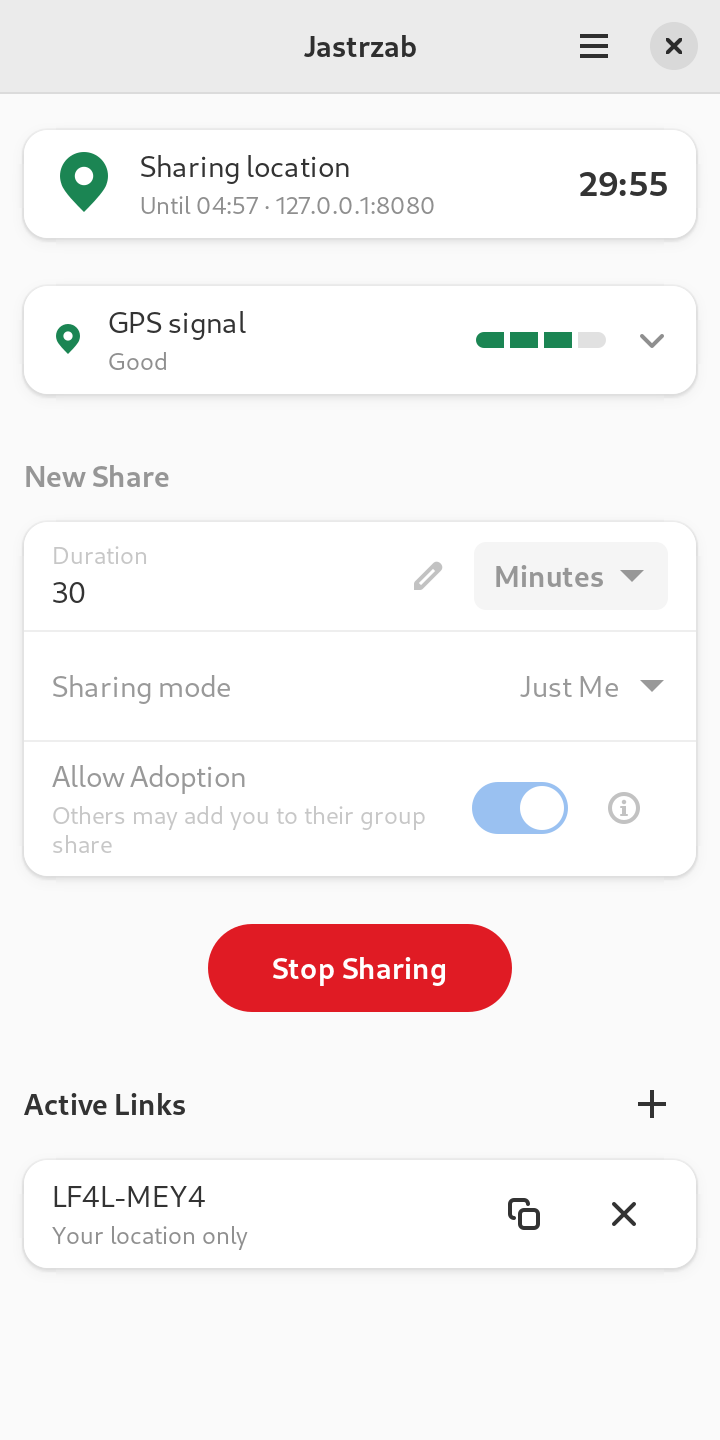
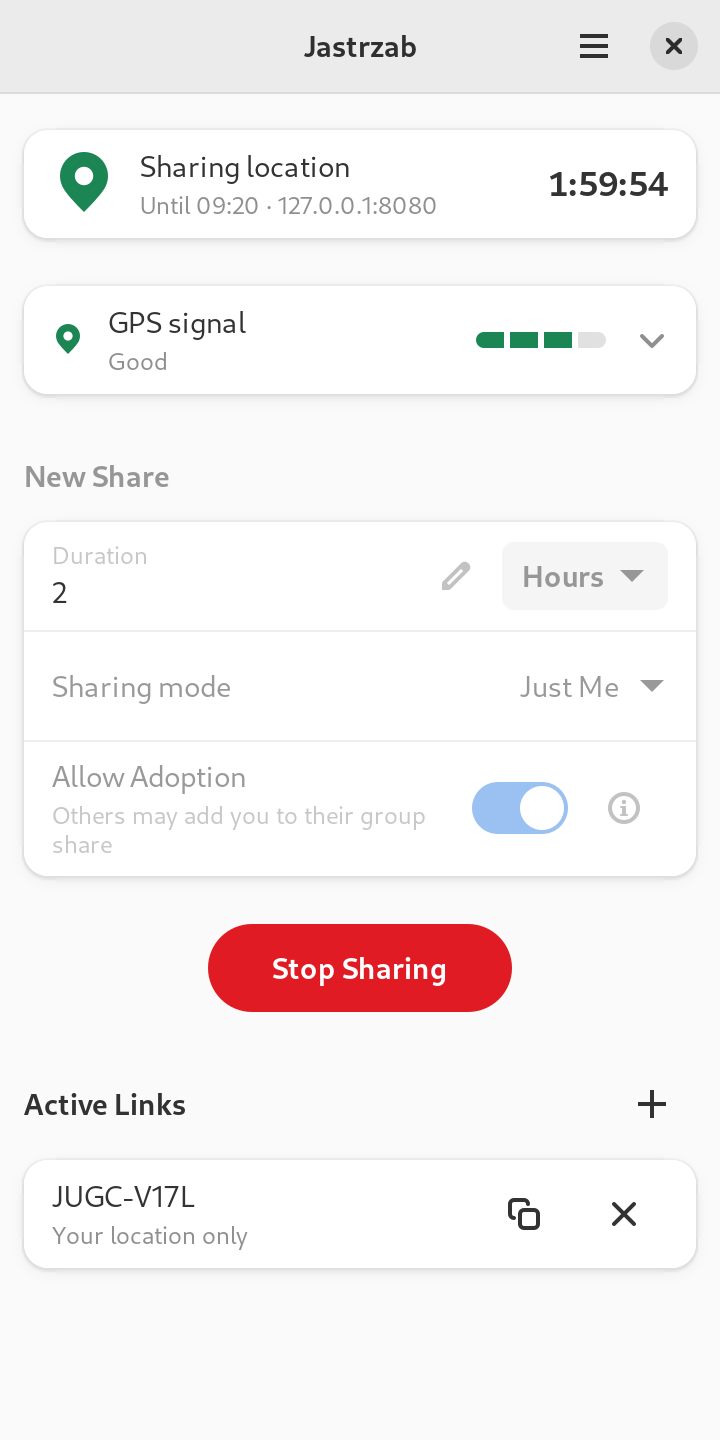
Preferences: text rows apply when left or when the window closes; 2 hours by default
The text rows (server address, username, password, link ID, proxy host,
encryption password) only applied through a tick button or Return, so
typing a server address and closing the window silently lost it. The
buttons are gone: a row applies when Return is pressed or it loses focus,
and every edited row applies when the window closes. Nothing applies per
keystroke, so a half-typed address still never reaches the network layer,
the keyring or the log scrubber, and a password shown from the keyring is
not stored back.

A new share now defaults to 2 hours instead of 30 minutes (a saved choice
is kept). The prefs scenario edits two rows through accessibility, closes
the window and checks the settings file; screenshots and design doc updated.

Claude-Session: https://claude.ai/code/session_01M2JufFLWbT6TqpVCVKjnwF

diff --git a/app/src/ui/preferences.rs b/app/src/ui/preferences.rs
@@ -1,6 +1,10 @@
-//! Preferences. Changes apply immediately and there is no Save button: spin rows, combos and
-//! switches apply when changed; text entries apply on Return or their apply button, so a
-//! half-typed server address never reaches the network layer or the log scrubber.
+//! Preferences. Changes apply by themselves and there is no Save button: spin rows, combos and
+//! switches apply when changed; text entries apply when the user leaves them (Return, tapping
+//! another row) or closes the window, so a half-typed server address never reaches the network
+//! layer, the keyring or the log scrubber, and nothing is lost by closing without a tick.
+
+use std::cell::{Cell, RefCell};
+use std::rc::Rc;
 
 use adw::prelude::*;
 use jastrzab_core::AppPaths;
@@ -11,49 +15,89 @@ use super::widgets::*;
 use crate::controller::Controller;
 use crate::platform::secrets::Kind;
 
+/// The text rows' pending edits, applied together when the window closes.
+type Commit = Rc<dyn Fn()>;
+
+#[derive(Clone, Default)]
+struct Pending(Rc<RefCell<Vec<Commit>>>);
+
+impl Pending {
+    fn flush(&self) {
+        for commit in self.0.borrow().iter() {
+            commit();
+        }
+    }
+}
+
+/// Applies `apply(text)` with the row's text once it has been edited, when the user presses Return
+/// or leaves the row, and (through `pending`) when the window closes. Returns the flag that says
+/// the row has unapplied edits: clear it after setting the text from the program.
+fn auto_apply(row: &impl IsA<adw::EntryRow>, pending: &Pending, apply: impl Fn(String) + 'static) -> Rc<Cell<bool>> {
+    let row = row.as_ref().clone();
+    let dirty = Rc::new(Cell::new(false));
+    let commit: Commit = {
+        let (row, dirty) = (row.clone(), dirty.clone());
+        Rc::new(move || {
+            if dirty.replace(false) {
+                apply(row.text().to_string());
+            }
+        })
+    };
+    {
+        let dirty = dirty.clone();
+        row.connect_changed(move |_| dirty.set(true));
+    }
+    {
+        let commit = commit.clone();
+        row.connect_entry_activated(move |_| commit());
+    }
+    let focus = gtk::EventControllerFocus::new();
+    {
+        let commit = commit.clone();
+        focus.connect_leave(move |_| commit());
+    }
+    row.add_controller(focus);
+    pending.0.borrow_mut().push(commit);
+    dirty
+}
+
 pub fn show(parent: &adw::ApplicationWindow, controller: &Controller) {
     let settings = controller.settings();
     let window = adw::PreferencesWindow::builder().transient_for(parent).modal(true).default_width(360).default_height(648).build();
     let page = adw::PreferencesPage::new();
+    let pending = Pending::default();
 
     // --- Server ----------------------------------------------------------------------------
     let server = adw::PreferencesGroup::builder().title(tr("Server")).build();
-    let address =
-        adw::EntryRow::builder().title(tr("Server address")).input_purpose(gtk::InputPurpose::Url).text(&settings.server_url).show_apply_button(true).build();
+    let address = adw::EntryRow::builder().title(tr("Server address")).input_purpose(gtk::InputPurpose::Url).text(&settings.server_url).build();
     {
         let controller = controller.clone();
-        address.connect_apply(move |row| {
-            let text = row.text().trim().to_string();
-            controller.update_settings(|s| s.server_url = text);
-        });
+        auto_apply(&address, &pending, move |text| controller.update_settings(|s| s.server_url = text.trim().to_string()));
     }
     server.add(&address);
-    let username = adw::EntryRow::builder().title(tr("Username")).text(&settings.username).show_apply_button(true).build();
+    let username = adw::EntryRow::builder().title(tr("Username")).text(&settings.username).build();
     {
         let controller = controller.clone();
-        username.connect_apply(move |row| {
-            let text = row.text().trim().to_string();
-            controller.update_settings(|s| s.username = text);
-        });
+        auto_apply(&username, &pending, move |text| controller.update_settings(|s| s.username = text.trim().to_string()));
     }
     server.add(&username);
-    let password = adw::PasswordEntryRow::builder().title(tr("Password")).show_apply_button(true).build();
+    let password = adw::PasswordEntryRow::builder().title(tr("Password")).build();
+    let password_dirty = {
+        let controller = controller.clone();
+        auto_apply(&password, &pending, move |text| controller.store_secret(Kind::ServerPassword, text))
+    };
     controller.load_secret(Kind::ServerPassword, {
         let password = password.clone();
-        move |secret| password.set_text(&secret)
+        move |secret| {
+            password.set_text(&secret);
+            password_dirty.set(false); // what is shown came from the keyring: nothing to store back
+        }
     });
-    {
-        let controller = controller.clone();
-        password.connect_apply(move |row| controller.store_secret(Kind::ServerPassword, row.text().to_string()));
-    }
     server.add(&password);
-    let link = adw::EntryRow::builder().title(tr("Preferred link ID")).text(&settings.preferred_link_id).show_apply_button(true).build();
+    let link = adw::EntryRow::builder().title(tr("Preferred link ID")).text(&settings.preferred_link_id).build();
     {
         let controller = controller.clone();
-        link.connect_apply(move |row| {
-            let text = row.text().trim().to_string();
-            controller.update_settings(|s| s.preferred_link_id = text);
-        });
+        auto_apply(&link, &pending, move |text| controller.update_settings(|s| s.preferred_link_id = text.trim().to_string()));
     }
     server.add(&link);
     page.add(&server);
@@ -104,15 +148,18 @@ pub fn show(parent: &adw::ApplicationWindow, controller: &Controller) {
             controller.update_settings(|s| s.e2e_enabled = on);
         });
     }
-    let enc_password = adw::PasswordEntryRow::builder().title(tr("Encryption password")).show_apply_button(true).build();
+    let enc_password = adw::PasswordEntryRow::builder().title(tr("Encryption password")).build();
+    let enc_password_dirty = {
+        let controller = controller.clone();
+        auto_apply(&enc_password, &pending, move |text| controller.store_secret(Kind::EncryptionPassword, text))
+    };
     controller.load_secret(Kind::EncryptionPassword, {
         let enc_password = enc_password.clone();
-        move |secret| enc_password.set_text(&secret)
+        move |secret| {
+            enc_password.set_text(&secret);
+            enc_password_dirty.set(false);
+        }
     });
-    {
-        let controller = controller.clone();
-        enc_password.connect_apply(move |row| controller.store_secret(Kind::EncryptionPassword, row.text().to_string()));
-    }
     encryption.add_row(&enc_password);
     privacy.add(&encryption);
     page.add(&privacy);
@@ -129,7 +176,7 @@ pub fn show(parent: &adw::ApplicationWindow, controller: &Controller) {
             ProxyKind::Socks => 3,
         })
         .build();
-    let proxy_host = adw::EntryRow::builder().title(tr("Proxy host")).text(&settings.proxy_host).show_apply_button(true).build();
+    let proxy_host = adw::EntryRow::builder().title(tr("Proxy host")).text(&settings.proxy_host).build();
     let (proxy_port_row, proxy_port) = spin_row(&tr("Proxy port"), "", 1.0, 65535.0, f64::from(settings.proxy_port));
     let proxy_rows_sensitive = {
         let (host, port) = (proxy_host.clone(), proxy_port_row.clone());
@@ -155,10 +202,7 @@ pub fn show(parent: &adw::ApplicationWindow, controller: &Controller) {
     }
     {
         let controller = controller.clone();
-        proxy_host.connect_apply(move |row| {
-            let text = row.text().trim().to_string();
-            controller.update_settings(|s| s.proxy_host = text);
-        });
+        auto_apply(&proxy_host, &pending, move |text| controller.update_settings(|s| s.proxy_host = text.trim().to_string()));
     }
     {
         let controller = controller.clone();
@@ -252,6 +296,10 @@ pub fn show(parent: &adw::ApplicationWindow, controller: &Controller) {
     page.add(&diagnostics);
 
     window.add(&page);
+    window.connect_close_request(move |_| {
+        pending.flush();
+        glib::Propagation::Proceed
+    });
     let window_clone = window.clone();
     glib::idle_add_local_once(move || window_clone.present());
 }

diff --git a/scripts/ui-e2e/drive.py b/scripts/ui-e2e/drive.py
@@ -279,7 +279,27 @@ def prefs():
         except Exception:
             pass
     check(not unnamed, f"every control in Preferences has a name {unnamed}")
+
+    # Text rows have no apply button: what is typed is kept when the window is closed.
+    def type_into(name, text):
+        row = next(iter(find_all("text", name)), None)
+        if row is None:
+            return False
+        return Atspi.EditableText.set_text_contents(row, text)
+
+    check(type_into("Username", "tester"), "the Username row can be edited")
+    check(type_into("Server address", "http://example.invalid:9/"), "so can the Server address row")
+    time.sleep(0.5)
+    close = [n for n in find_all("push button") if (n.get_name() or "") in ("Close", "Close window")]
+    names = sorted({n.get_name() for n in find_all("push button") if n.get_name()})
+    check(bool(close), f"the Preferences window has a close button {names}")
+    if close:
+        Atspi.Action.do_action(close[-1], 0)
+    wait_for(lambda: not find_all("label", "Server"), 10, "Preferences to close")
     end_app(proc)
+    saved = open(f"{HOME}/.config/{APP_ID}/settings.toml").read()
+    check('username = "tester"' in saved, "the username was saved without any apply button")
+    check('server_url = "http://example.invalid:9/"' in saved, "and so was the server address")
 
 
 def frame_size():

diff --git a/crates/jastrzab-core/src/settings.rs b/crates/jastrzab-core/src/settings.rs
@@ -129,8 +129,8 @@ impl Default for Settings {
             confirm_stop: true,
             pause_when_offline: true,
             anonymize_logs: true,
-            duration: 30,
-            unit: DurationUnit::Minutes,
+            duration: 2,
+            unit: DurationUnit::Hours,
             nickname: String::new(),
             adoptable: true,
         }
@@ -203,6 +203,14 @@ mod tests {
     fn defaults_round_trip_through_toml() {
         let settings = Settings::default();
         assert_eq!(Settings::from_toml(&settings.to_toml()), settings);
+    }
+
+    #[test]
+    fn a_new_share_defaults_to_two_hours_and_a_saved_choice_is_kept() {
+        let fresh = Settings::from_toml("");
+        assert_eq!((fresh.duration, fresh.unit), (2, DurationUnit::Hours));
+        let saved = Settings::from_toml("duration = 30\nunit = \"minutes\"\n");
+        assert_eq!((saved.duration, saved.unit), (30, DurationUnit::Minutes));
     }
 
     #[test]

diff --git a/docs/phosh-gui-design.md b/docs/phosh-gui-design.md
@@ -144,7 +144,7 @@ A single page replaces the Android layout's logo, tagline and repository link. T
 - Status row: icon, **Not sharing**, subtitle "Choose how long to share, then start".
 - **GPS signal** row: "Not checking" with a **Check** button (§4.4).
 - **New Share** group:
-  - *Duration*: one entry row, as in Hauk: a number (digits only, default 30) with a unit dropdown (Minutes, Hours, Days) as its suffix. An entry row rather than a spin button beside a dropdown, so the number takes the width that is left and the row fits 320 px at large text;
+  - *Duration*: one entry row, as in Hauk: a number (digits only, default 2) with the unit dropdown (Minutes, Hours, Days; default Hours) as its suffix. An entry row rather than a spin button beside a dropdown, so the number takes the width that is left and the row fits 320 px at large text;
   - *Sharing mode*: a combo (Just Me, Create Group, Join Group);
   - *Allow Adoption*: a switch with a help button, shown only for Just Me.
 - **Start Sharing**: a `.pill` `.suggested-action` button, the only suggested-style button on the view.
